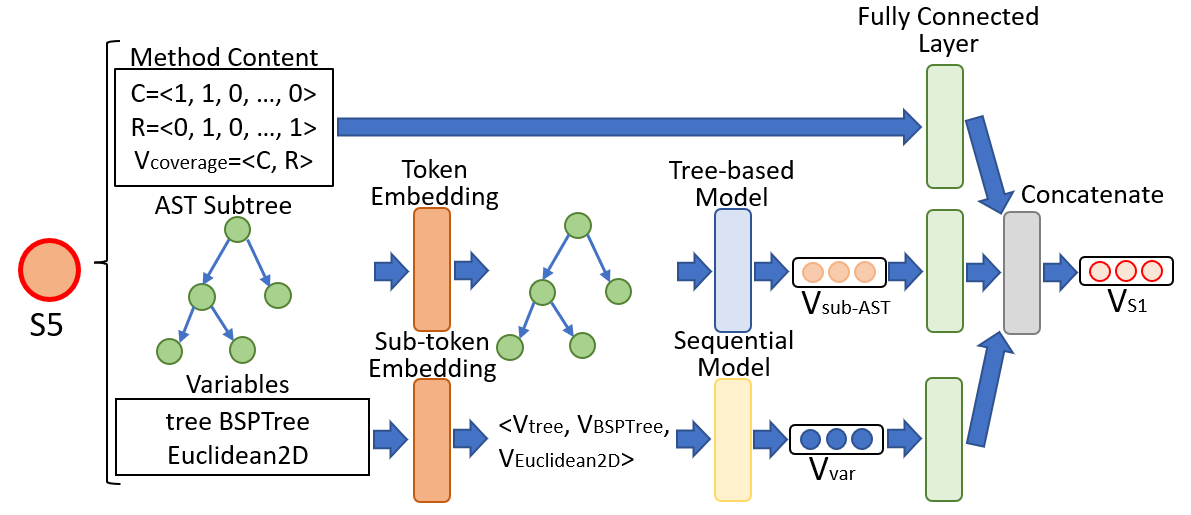
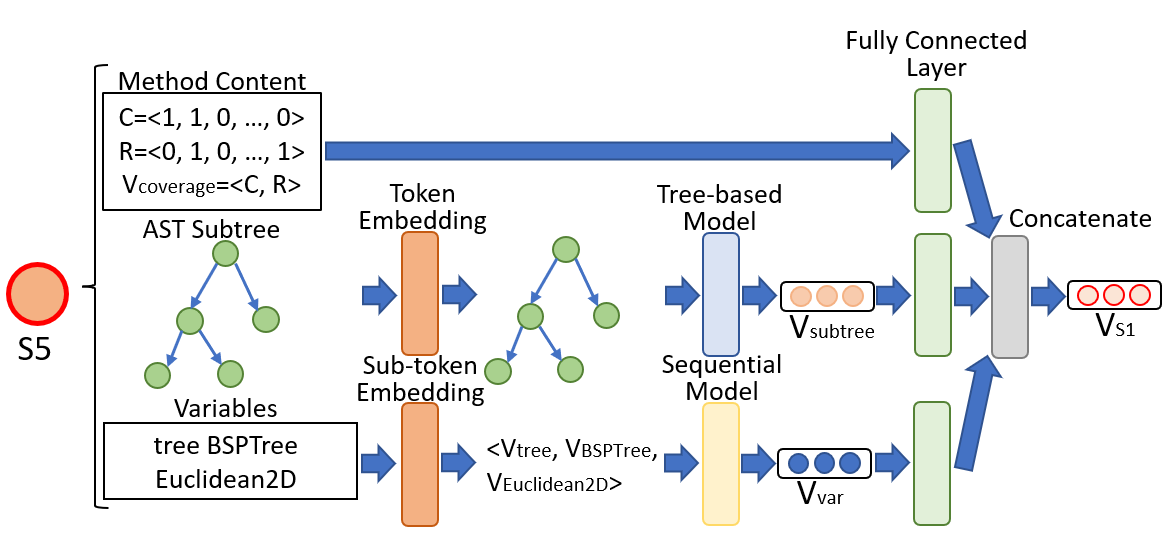
update

Changed region(s): [[0.0, 0.0, 1.0, 0.9942], [0.5831, 0.932, 0.6445, 0.9942], [0.2148, 0.5282, 0.2455, 0.6214]]

diff --git a/sections/approach_step2-new.tex b/sections/approach_step2-new.tex
@@ -16,11 +16,11 @@ To be more in detail, we introduce the node feature representation learning also
 
 From step 1, for each node that represent a method $M$, there are extracted sequence of sub-tokens $Seq^p_m$ as the method content, generated AST $Tree_m$, and the generated AST for the most similar buggy method $M_b$ as the node features. To learn the feature representation, we follow these steps.
 
-1) {\em \underline{The method's content}}: \tool uses the token embedding techniques to learn the representation vector for each token in the sequence and then replace each sub-token with the embedding vector generated from the techniques. The GloVe \cite{pennington2014glove} is a good word embedding technique that can catch the meaning of the sub-token well, so \tool uses GloVe as the token embedding technique. After the vectorization, \tool has a sequence of vector $Seq^{pe}_m$ and then uses a sequential model to learn the summarized vector that can represent the method's content.  GRU layer \cite{cho2014learning} is a type of RNN layer that is efficient on learning and summarizing the information in the sequences. \tool uses GRU layer here to learn the embedding vector $vec_{mc}$ for the method content.
+1) {\em \underline{The method's content}}: \tool uses the token embedding techniques to learn the representation vector for each token in the sequence and then replace each sub-token with the embedding vector generated from the techniques. The GloVe \cite{pennington2014glove} is a good word embedding technique that can catch the meaning of the sub-token well, so \tool uses GloVe as the token embedding technique. After the vectorization, \tool has a sequence of vector $Seq^{pe}_m$ and then uses a sequential model to learn the summarized vector that can represent the method's content.  GRU layer \cite{cho2014learning} is a type of RNN layer that is efficient on learning and summarizing the information in the sequences. \tool uses GRU layer here to learn the embedding vector $V_{mc}$ for the method content. For example, as you can see in Figure \ref{method-level-feature-learning}, the method content first goes through the sub-token embedding bar and become a sequence of vectors. Each vector inside represent a sub-token. Such as $V_{geometrical}$ represent the sub-token $geometrical$. And then, this sequence is feed into the sequential model and get the $V_{mc}$ as a summary to represent the method content.
 
-2) {\em \underline{The method's structure}}: Similarly, \tool firstly uses the GloVe to vectorize the AST just as in 1) and then uses a tree-based model to learn the method's structure. In the most recent study, TreeCaps \cite{bui2021treecaps} proves that it is good at learning the tree structure information. To learn the structure information well as a node feature, \tool uses TreeCaps as the tree-based model to learn the embedding vector $vec^{ms}$.
+2) {\em \underline{The method's structure}}: Similarly, \tool firstly uses the GloVe to vectorize the AST just as in 1) and then uses a tree-based model to learn the method's structure. In the most recent study, TreeCaps \cite{bui2021treecaps} proves that it is good at learning the tree structure information. To learn the structure information well as a node feature, \tool uses TreeCaps as the tree-based model to learn the embedding vector $V_{AST}$. As shown in Figure \ref{method-level-feature-learning}, the generated AST firstly has been vectorized with GloVe and then use the tree-based model to get the representation vector $V_{AST}$
 
-3) {\em \underline{Most similar buggy method}}: As for the similar buggy method, \tool doing the same process as the method structure feature by using the GloVe and TreeCaps to learn the embedding vector $vec^{msbm}$.
+3) {\em \underline{Most similar buggy method}}: As for the similar buggy method, \tool doing the same process as the method structure feature by using the GloVe and TreeCaps to learn the embedding vector $V_{MSBM}$. Similar as feature 2), in figure \ref{method-level-feature-learning}, the bottom line shows how the vector $V_{MSBM}$ generated for method $M1$
 
 \subsection{Statement-level Feature Representation Learning}
 
@@ -34,10 +34,10 @@ From step 1, for each node that represent a method $M$, there are extracted sequ
 From step 1, for each node that represent a statement $S$, there are extracted code coverage information vector, generated AST subtree $Tree_s$, and the generated variable sequence as the node features. To learn the feature representation, we follow these steps.
 
 1) {\em \underline{Code Coverage}}: \tool does not make any changes and directly regard $V_{Cov} = <c_1, c_2, ...,
-c_K, r_1, r_2, ..., r_K>$ that is extracted from step 1 as the embedding vector $vec_{cc}$ for the code coverage.  
+c_K, r_1, r_2, ..., r_K>$ that is extracted from step 1 as the embedding vector $V_{cc}$ for the code coverage. 
 
-2) {\em \underline{The statement's structure}}: \tool does the same process as the method's structure feature. \tool firstly using the GloVe to vectorize the AST and then using tree-based model TreeCaps to learn the embedding vector $vec^{ss}$. 
+2) {\em \underline{The statement's structure}}: \tool does the same process as the method's structure feature. \tool firstly using the GloVe to vectorize the AST and then using tree-based model TreeCaps to learn the embedding vector $V^{subtree}$. Just like the process steps for the AST subtree feature in Figure \ref{statement-level-feature-learning}.
 
-3) {\em \underline{List of variables}}: As for the similar buggy method, \tool doing the same process as the method structure feature by using the GloVe and TreeCaps to learn the embedding vector $vec^{msbm}$.
+3) {\em \underline{List of variables}}: As for the similar buggy method, \tool doing the same process as the method structure feature by using the GloVe and TreeCaps to learn the embedding vector $V^{var}$. For example, in Figure \ref{statement-level-feature-learning}, the variable sequence $tree BSPTree Euclidean2D$ in $S5$ has been embedded through the sub-token embedding technique into $<V_{tree}, V_{BSPTree}, V_{Euclidean2D}>$ and then the sequential model learns the representation vector $V_{var}$ for the variable sequence. 
 
-After having the six embedding vectors mentioned above, \tool uses six fully connected layers to standardize each embedding vector's length to $l/3$ (Here l/3 is an integer). And then, for both method-level and statement-level, \tool concatenate three feature embedding vector into one vector $vec_{m}$ or $vec_{s}$ for the method-level or statement-level with the length of $l$. In this case, for both method-level and statement-level, \tool all has the graph $G_m$ or $G_s$ with the node embedding vector $vec_{m}$ or $vec_{s}$. It is the input for the next step.
+After having the six embedding vectors mentioned above, \tool uses six fully connected layers to standardize each embedding vector's length to $l/3$ (Here l/3 is an integer). And then, for both method-level and statement-level, \tool concatenate three feature embedding vector into one vector $V_{M}$ or $V_{S}$ for the method-level or statement-level with the length of $l$. In this case, for both method-level and statement-level, \tool all has the graph $G_m$ or $G_s$ with the node embedding vector $V_{m}$ or $V_{s}$. It is the input for the next step.
